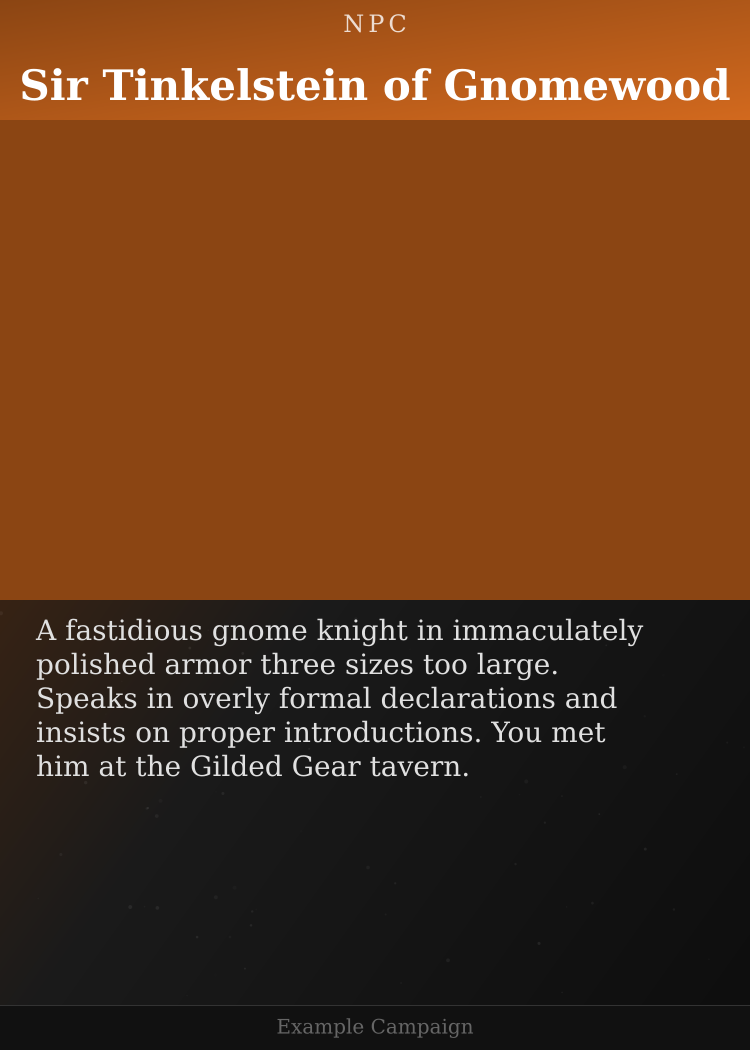
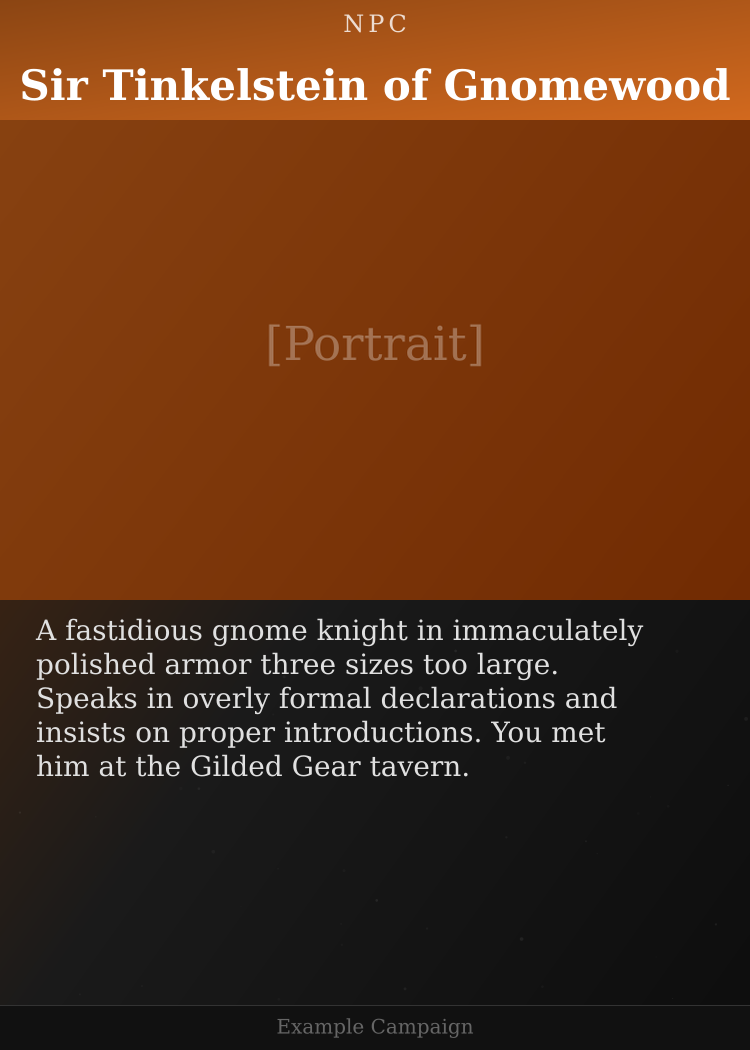
Add Flux standard sizes and framed layout style
Portrait generator:
- Now uses Flux standard size presets (portrait_4_3, square, etc.)
- Default: portrait_4_3 (768x1024) - good for cards
- Gradient placeholder instead of solid color

Card renderer:
- New "framed" style with inset portrait and decorative border
- Updated all styles with portraitInset property

Regenerated layout examples at 768x1024 portrait size.

Changed region(s): [[0.3373, 0.3048, 0.644, 0.3657], [0.8893, 0.4571, 1.0, 0.579]]

diff --git a/packages/card-generator/scripts/generate-portrait.js b/packages/card-generator/scripts/generate-portrait.js
@@ -3,12 +3,12 @@
  * generate-portrait.js - Generate portrait images for cards
  *
  * Usage:
- *   node generate-portrait.js <output.png> [--color=#hex] [--width=N] [--height=N]
- *   node generate-portrait.js portrait.png --color=#8B4513
- *   node generate-portrait.js portrait.png --prompt="gnome knight" --api  (future: call fal.ai)
+ *   node generate-portrait.js <output.png> [--size=PRESET] [--category=TYPE]
+ *   node generate-portrait.js portrait.png --size=portrait_4_3 --category=npc
+ *   node generate-portrait.js portrait.png --prompt="gnome knight" --api
  *
  * Currently generates dummy solid-color images for testing.
- * Add --api flag (not yet implemented) to call fal.ai for real images.
+ * Add --api flag to call fal.ai Flux (requires FAL_KEY env var).
  *
  * Dependencies: sharp (npm install sharp)
  */
@@ -16,23 +16,42 @@
 const fs = require('fs');
 const path = require('path');
 
-// Default portrait dimensions (5:7 ratio, sized for card)
-const DEFAULT_WIDTH = 512;
-const DEFAULT_HEIGHT = 716;
+// Flux standard size presets (fal.ai)
+// See: https://fal.ai/models/fal-ai/flux/dev/api
+const SIZE_PRESETS = {
+  // Square
+  square: { width: 1024, height: 1024 },
+  square_hd: { width: 1024, height: 1024 },
+
+  // Portrait (vertical)
+  portrait_4_3: { width: 768, height: 1024 },   // 3:4 ratio - good for cards
+  portrait_16_9: { width: 576, height: 1024 },  // 9:16 ratio
+
+  // Landscape (horizontal)
+  landscape_4_3: { width: 1024, height: 768 },
+  landscape_16_9: { width: 1024, height: 576 },
+
+  // Card-optimized (will be cropped to fit card)
+  card: { width: 768, height: 1024 }  // Same as portrait_4_3
+};
+
+const DEFAULT_SIZE = 'portrait_4_3';
 
 // Category colors for dummy images
 const CATEGORY_COLORS = {
-  npc: '#8B4513',      // brown
-  location: '#2E8B57', // green
-  item: '#4169E1',     // blue
-  faction: '#8B008B',  // purple
-  quest: '#B8860B',    // gold
-  default: '#666666'   // gray
+  npc: '#8B4513',
+  location: '#2E8B57',
+  item: '#4169E1',
+  faction: '#8B008B',
+  quest: '#B8860B',
+  mystery: '#4A4A4A',
+  default: '#666666'
 };
 
 async function generateDummyPortrait(outputPath, options = {}) {
-  const width = options.width || DEFAULT_WIDTH;
-  const height = options.height || DEFAULT_HEIGHT;
+  const preset = SIZE_PRESETS[options.size] || SIZE_PRESETS[DEFAULT_SIZE];
+  const width = options.width || preset.width;
+  const height = options.height || preset.height;
   const color = options.color || CATEGORY_COLORS[options.category] || CATEGORY_COLORS.default;
 
   let sharp;
@@ -40,33 +59,53 @@ async function generateDummyPortrait(outputPath, options = {}) {
     sharp = require('sharp');
   } catch (e) {
     console.error('Error: sharp not installed. Run: npm install sharp');
-    console.error('Creating placeholder text file instead.');
-
-    // Fallback: create a placeholder file
-    fs.writeFileSync(outputPath + '.placeholder', JSON.stringify({
-      width, height, color,
-      note: 'Install sharp to generate actual PNG: npm install sharp'
-    }, null, 2));
-    console.log(`Created placeholder: ${outputPath}.placeholder`);
-    return;
+    process.exit(1);
   }
 
-  // Create solid color image
-  const image = sharp({
-    create: {
-      width,
-      height,
-      channels: 3,
-      background: color
-    }
-  });
+  // Create gradient/textured dummy instead of solid color
+  const svg = `
+    <svg width="${width}" height="${height}">
+      <defs>
+        <linearGradient id="grad" x1="0%" y1="0%" x2="100%" y2="100%">
+          <stop offset="0%" style="stop-color:${color}"/>
+          <stop offset="100%" style="stop-color:${adjustColor(color, -30)}"/>
+        </linearGradient>
+      </defs>
+      <rect width="${width}" height="${height}" fill="url(#grad)"/>
+      <text x="${width/2}" y="${height/2}" font-family="serif" font-size="48"
+            fill="rgba(255,255,255,0.3)" text-anchor="middle">[Portrait]</text>
+    </svg>
+  `;
 
-  await image.png().toFile(outputPath);
-  console.log(`Generated: ${outputPath} (${width}x${height}, ${color})`);
+  await sharp(Buffer.from(svg)).png().toFile(outputPath);
+  console.log(`Generated: ${outputPath} (${width}x${height}, ${options.size || DEFAULT_SIZE})`);
+}
+
+function adjustColor(hex, amount) {
+  // Darken/lighten a hex color
+  const num = parseInt(hex.slice(1), 16);
+  const r = Math.max(0, Math.min(255, (num >> 16) + amount));
+  const g = Math.max(0, Math.min(255, ((num >> 8) & 0x00FF) + amount));
+  const b = Math.max(0, Math.min(255, (num & 0x0000FF) + amount));
+  return `#${(r << 16 | g << 8 | b).toString(16).padStart(6, '0')}`;
 }
 
 async function generateApiPortrait(outputPath, prompt, options = {}) {
-  // Future: implement fal.ai API call
+  const apiKey = process.env.FAL_KEY;
+  if (!apiKey) {
+    console.error('Error: FAL_KEY environment variable not set.');
+    console.error('Get your API key at: https://fal.ai/dashboard/keys');
+    console.error('Falling back to dummy portrait.');
+    return generateDummyPortrait(outputPath, options);
+  }
+
+  // TODO: Implement actual fal.ai API call
+  // const fal = require('@fal-ai/client');
+  // fal.config({ credentials: apiKey });
+  // const result = await fal.subscribe("fal-ai/flux/dev", {
+  //   input: { prompt, image_size: options.size || DEFAULT_SIZE }
+  // });
+
   console.error('API portrait generation not yet implemented.');
   console.error('Falling back to dummy portrait.');
   await generateDummyPortrait(outputPath, options);
@@ -89,22 +128,32 @@ Usage:
   node generate-portrait.js <output.png> [options]
 
 Options:
-  --color=#RRGGBB    Solid color for dummy image (default: gray)
-  --category=TYPE    Use category color (npc/location/item/faction/quest)
-  --width=N          Width in pixels (default: 512)
-  --height=N         Height in pixels (default: 716)
-  --prompt="..."     Image prompt (for future API integration)
-  --api              Use fal.ai API (not yet implemented)
+  --size=PRESET      Flux standard size (default: portrait_4_3)
+  --category=TYPE    Category color (npc/location/item/faction/quest/mystery)
+  --color=#RRGGBB    Custom color (overrides category)
+  --width=N          Custom width (overrides preset)
+  --height=N         Custom height (overrides preset)
+  --prompt="..."     Image prompt (for --api mode)
+  --api              Use fal.ai Flux API (requires FAL_KEY)
+
+Size presets (Flux standard):
+  portrait_4_3   768x1024  (recommended for cards)
+  portrait_16_9  576x1024
+  square         1024x1024
+  landscape_4_3  1024x768
+  landscape_16_9 1024x576
 
 Examples:
   node generate-portrait.js portrait.png --category=npc
-  node generate-portrait.js portrait.png --color=#8B4513
+  node generate-portrait.js portrait.png --size=portrait_4_3 --category=npc
+  node generate-portrait.js portrait.png --prompt="gnome knight" --api
 `);
   process.exit(0);
 }
 
 const outputPath = positional[0];
 const options = {
+  size: flags.size,
   color: flags.color,
   category: flags.category,
   width: flags.width ? parseInt(flags.width, 10) : undefined,

diff --git a/packages/card-generator/scripts/render-card-sharp.js b/packages/card-generator/scripts/render-card-sharp.js
@@ -28,7 +28,8 @@ const STYLES = {
     headerTextColor: 'white',
     footerBgColor: '#111111',
     footerTextColor: '#666666',
-    textured: true
+    textured: true,
+    portraitInset: 0
   },
   parchment: {
     portraitHeight: 480,
@@ -39,7 +40,8 @@ const STYLES = {
     headerTextColor: '#f4e4c1',
     footerBgColor: '#e8d4a8',
     footerTextColor: '#5a4a36',
-    textured: true
+    textured: true,
+    portraitInset: 0
   },
   minimal: {
     portraitHeight: 450,
@@ -50,7 +52,8 @@ const STYLES = {
     headerTextColor: 'white',
     footerBgColor: '#f5f5f5',
     footerTextColor: '#999999',
-    textured: false
+    textured: false,
+    portraitInset: 0
   },
   compact: {
     portraitHeight: 320,
@@ -61,7 +64,21 @@ const STYLES = {
     headerTextColor: 'white',
     footerBgColor: '#111111',
     footerTextColor: '#666666',
-    textured: true
+    textured: true,
+    portraitInset: 0
+  },
+  framed: {
+    portraitHeight: 420,
+    headerHeight: 120,
+    footerHeight: 45,
+    bgColor: '#1a1a1a',
+    textColor: '#e0e0e0',
+    headerTextColor: 'white',
+    footerBgColor: '#111111',
+    footerTextColor: '#666666',
+    textured: true,
+    portraitInset: 24,  // Margin around portrait
+    portraitBorder: 3   // Border width
   }
 };
 
@@ -208,27 +225,49 @@ async function renderCard(cardPath, outputPath, style = 'dark') {
   const colors = CATEGORY_COLORS[card.category] || CATEGORY_COLORS.npc;
   const s = STYLES[style];
 
+  // Calculate portrait dimensions with inset
+  const inset = s.portraitInset || 0;
+  const portraitWidth = CARD_WIDTH - (inset * 2);
+  const portraitInnerHeight = s.portraitHeight - (inset * 2);
+
   // Load or create portrait
   let portraitBuffer = null;
   if (card.portrait) {
     const portraitPath = path.resolve(cardDir, card.portrait);
     if (fs.existsSync(portraitPath)) {
       portraitBuffer = await sharp(portraitPath)
-        .resize(CARD_WIDTH, s.portraitHeight, { fit: 'cover' })
+        .resize(portraitWidth, portraitInnerHeight, { fit: 'cover' })
         .toBuffer();
     }
   }
 
   if (!portraitBuffer) {
     const placeholderSvg = `
-      <svg width="${CARD_WIDTH}" height="${s.portraitHeight}">
-        <rect width="${CARD_WIDTH}" height="${s.portraitHeight}" fill="${colors.accent}" opacity="0.3"/>
-        <text x="${CARD_WIDTH/2}" y="${s.portraitHeight/2}"
+      <svg width="${portraitWidth}" height="${portraitInnerHeight}">
+        <rect width="${portraitWidth}" height="${portraitInnerHeight}" fill="${colors.accent}" opacity="0.3"/>
+        <text x="${portraitWidth/2}" y="${portraitInnerHeight/2}"
               font-family="serif" font-size="32" fill="${style === 'parchment' ? '#5a4a36' : '#666666'}"
               text-anchor="middle">[Portrait]</text>
       </svg>
     `;
     portraitBuffer = await sharp(Buffer.from(placeholderSvg)).png().toBuffer();
+  }
+
+  // Add border for framed style
+  if (s.portraitBorder) {
+    const borderWidth = s.portraitBorder;
+    const borderedWidth = portraitWidth + (borderWidth * 2);
+    const borderedHeight = portraitInnerHeight + (borderWidth * 2);
+    const borderSvg = `
+      <svg width="${borderedWidth}" height="${borderedHeight}">
+        <rect width="${borderedWidth}" height="${borderedHeight}" fill="${colors.light}"/>
+      </svg>
+    `;
+    const borderBuffer = await sharp(Buffer.from(borderSvg)).png().toBuffer();
+    portraitBuffer = await sharp(borderBuffer)
+      .composite([{ input: portraitBuffer, top: borderWidth, left: borderWidth }])
+      .png()
+      .toBuffer();
   }
 
   const bodyHeight = CARD_HEIGHT - s.headerHeight - s.portraitHeight - s.footerHeight;
@@ -240,10 +279,14 @@ async function renderCard(cardPath, outputPath, style = 'dark') {
     createFooter(CARD_WIDTH, s.footerHeight, card.footer, style)
   ]);
 
+  // Calculate portrait position (centered if inset)
+  const portraitLeft = inset - (s.portraitBorder || 0);
+  const portraitTop = s.headerHeight + inset - (s.portraitBorder || 0);
+
   await sharp(background)
     .composite([
       { input: header, top: 0, left: 0 },
-      { input: portraitBuffer, top: s.headerHeight, left: 0 },
+      { input: portraitBuffer, top: portraitTop, left: portraitLeft },
       { input: body, top: s.headerHeight + s.portraitHeight, left: 0 },
       { input: footer, top: CARD_HEIGHT - s.footerHeight, left: 0 }
     ])
@@ -274,6 +317,7 @@ Styles:
   parchment - Aged paper look, dark text
   minimal   - Clean white background
   compact   - Smaller portrait, more room for text
+  framed    - Portrait with decorative border/margin
 
 Example:
   node render-card-sharp.js card.json card.png --style=parchment

diff --git a/campaigns/example/cards/npc/sir-tinkelstein-layouts/REVIEW.md b/campaigns/example/cards/npc/sir-tinkelstein-layouts/REVIEW.md
@@ -1,6 +1,6 @@
 # Layout Comparison
 
-Same card content rendered in 4 different styles. Pick which ones to keep.
+Same card content rendered in 5 different styles. Pick which ones to keep.
 
 ---
 
@@ -8,7 +8,7 @@ Same card content rendered in 4 different styles. Pick which ones to keep.
 
 ![dark](dark.png)
 
-Dark textured background, light text. Fantasy/gothic feel.
+Dark textured background, light text. Full-width portrait.
 
 ---
 
@@ -16,7 +16,7 @@ Dark textured background, light text. Fantasy/gothic feel.
 
 ![parchment](parchment.png)
 
-Aged paper look, dark text. Classic/vintage feel.
+Aged paper look, dark text. Full-width portrait.
 
 ---
 
@@ -24,7 +24,7 @@ Aged paper look, dark text. Classic/vintage feel.
 
 ![minimal](minimal.png)
 
-Clean white background, no texture. Modern/simple.
+Clean white background, no texture. Full-width portrait.
 
 ---
 
@@ -32,13 +32,21 @@ Clean white background, no texture. Modern/simple.
 
 ![compact](compact.png)
 
-Smaller portrait (320px vs 480px), more room for longer descriptions. Dark theme.
+Smaller portrait (320px vs 480px), more room for longer descriptions. Full-width portrait.
+
+---
+
+## Framed
+
+![framed](framed.png)
+
+Portrait with decorative border and margin. Not full-width.
 
 ---
 
 ## Feedback
 
 Comment with which layouts to keep:
-- **"Keep dark and parchment"** → Archive minimal and compact
+- **"Keep dark and framed"** → Archive the others
 - **"Only dark"** → Use as sole style
 - etc.
